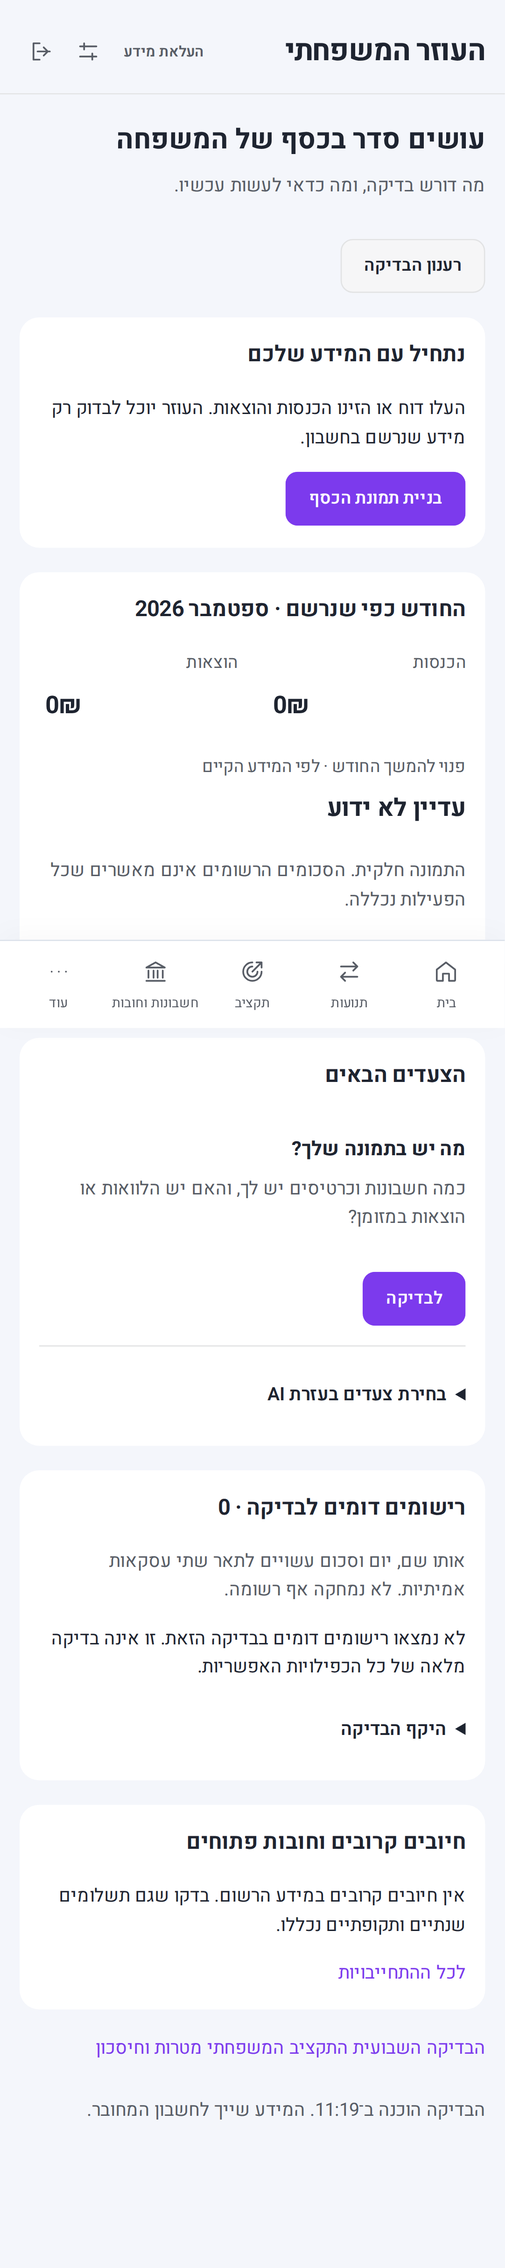
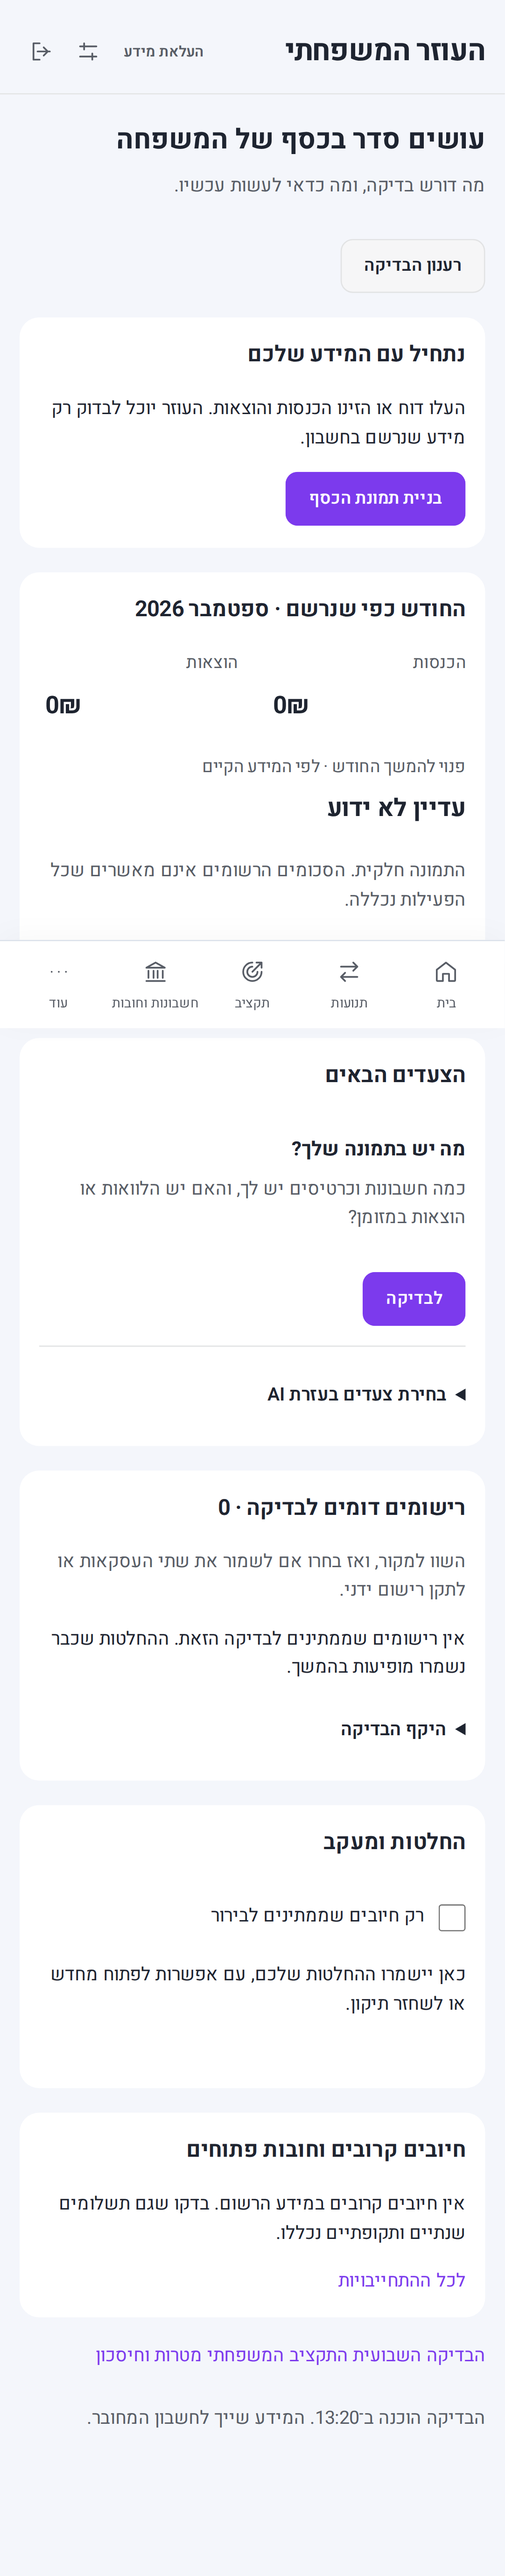
docs(assistant): record the duplicate review workflow and its limits

diff --git a/docs/research/household-assistant-implementation.md b/docs/research/household-assistant-implementation.md
@@ -11,8 +11,13 @@ This first version reviews recorded household finances and offers the next steps
 - `GET /api/household-assistant`: owner-scoped snapshot, version, generation time, authoritative totals, allowance, blockers, up to 30 existing journey actions, commitments and duplicate evidence.
 - `POST /api/household-assistant/plan`: strict `{ version, consent: true }`; rejects stale input with 409. Uses a configured model to select temporary task IDs. Returned IDs are validated and mapped to server-owned actions. Priorities ≤25 stay ahead of model selections. Changed data during inference returns `mode: "stale"` and no selections.
 - Model errors, invalid JSON, invented/duplicate IDs or absent configuration return deterministic steps (`mode: "rules"`). SDK requests receive a 15-second abort signal. Neither endpoint accepts a client-supplied owner.
+- `GET /api/household-assistant/duplicates/:id`: the full record set of one candidate group, re-read at request time. A group that no longer exists returns 409 rather than a stale list.
+- `POST /api/household-assistant/duplicate-reviews`: strict `{ requestId, candidateId, version, decision, confirmed: true }`, plus `removedKey`/`keptKey` for `remove_manual` only. Rejects a changed group with 409, a reused `requestId` carrying different content with 409, and replays an identical one without repeating its effect.
+- `GET /api/household-assistant/duplicate-reviews`: the decision history, newest first, 20 per page with a cursor; `followUp=true` returns only charges awaiting issuer clarification.
+- `POST /api/household-assistant/duplicate-reviews/:id/undo`: strict `{ version, confirmed: true }`. Reopens the group and restores a removed row with its original identity, month, category, payment method and recurrence. Blocked with an explicit reason when the retained sources changed, the ID is taken or the original category/payment method is gone.
 - Existing session authentication and CSRF protection apply. Limits are per authenticated user (30 scans / minute, 5 plan requests / minute), including users sharing an IP. The existing login limiter still uses its original IP behavior.
-- No schema/migration changes. No financial formulas, import deduplication, reconciliation rules or approval requirements changed. Snapshot collection reuses existing journey reads, which may initialize a profile, generate alerts or persist already-established automatic commitment verification. The assistant itself has no financial mutation endpoint.
+- One migration, `20260923120000_duplicate_reviews`, adds the `duplicate_reviews` audit table. No financial formulas, import deduplication, reconciliation rules or approval requirements changed. Snapshot collection reuses existing journey reads, which may initialize a profile, generate alerts or persist already-established automatic commitment verification.
+- `remove_manual` is the assistant's only financial mutation, and it deletes through `expensesService`/`incomesService` inside the existing owner transaction, so the deletion and its audit record commit together or not at all. Imported card charges are never deleted here. A removal bumps the financial revision, which invalidates coverage acknowledgement exactly as any other money change does.
 
 ## Duplicate scan boundaries
 
@@ -21,6 +26,16 @@ The most recent 90 calendar days through the Jerusalem business date; at most 2,
 Comparison uses positive signed amounts rounded to cents, normalized exact names and the same date. Same-source groups preserve payment-method/card/income-type identity. A manual expense can also match card evidence unless its payment method contradicts that. Repeated genuine purchases can be candidates: no automatic deletion, no claimed probability, no assumed savings. Response displays at most 50 groups / 20 records per group and exposes total counts.
 
 Dates used for this *identity check* are the transaction date. Monthly financial totals remain entirely from `monthTotals`, including the existing `billingDate` and financing rules. The two purposes must not be confused in future refactors.
+
+## Duplicate review decisions
+
+Three decisions: the records are separate transactions, a manual row was entered twice and one copy should go, or the charges are genuinely on the statement and need clarification with the issuer. Only the second removes anything, and only a manual expense or income — never an imported card charge. The third changes no amount at all; it records a follow-up the household still owes itself, and the money stays in the totals until the issuer question is settled.
+
+Every decision is bound to a `version` fingerprint of the exact rows it was made about. Editing any of those rows invalidates the decision: the group returns to the review list marked as reopened, the history entry reads as stale, and the legacy `duplicate_transaction` alert reappears. A new row joining the group reopens a whole-group decision too, since the question the household answered was about a different set of records. This is deliberate — a saved judgement is about evidence, not about record IDs.
+
+Undo restores the removed row from a snapshot taken before deletion, recreating it under its original ID. It refuses rather than partially rebuilds: if the retained rows changed, the ID was reused, or the original category or payment method was deleted, the history shows why and nothing is written.
+
+The scan and the `duplicate_transaction` alerts read the same persisted evidence, so a group confirmed as separate stops raising both. Those alerts now follow current evidence — an alert for a group that is no longer detected is removed rather than left standing — and the review history, not the alert list, is the durable record.
 
 ## AI configuration and privacy
 
@@ -34,6 +49,7 @@ Successful read-only plan POSTs deliberately do not emit the shared financial-mu
 
 - Backend: 414 tests passed, including 26 added tests; all six real statement/schedule fixtures and golden data present. Tests cover signed/different/multiple records, source identity, bank links, drafts, financing, installment exclusions, tenant isolation, stable snapshots, unchanged monthly totals, CSRF, consent, stale requests, in-flight changes, provider failures, invented output, cancellation propagation and per-user limits.
 - Backend build, typecheck, test typecheck and lint passed. Frontend build passed; lint has the existing 22 warnings in unrelated files and no new warnings.
+- Duplicate review (added after the sections above): backend 429 passed across 42 files, including 15 integration tests covering exact-once correction, full-field restore, immutable card charges, issuer follow-up, stale evidence, reopening on edits and new members, blocked undo, rollback when the audit fails, concurrent and replayed requests, pagination, ownership/CSRF/confirmation, and the legacy alert interaction. Real-API browser suite 10 passed across desktop/mobile, including the decision dialog in all eight themes with axe WCAG A/AA, keyboard focus order and dialog overflow. Existing mocked journey regression: 32 passed. Backend typecheck/test-typecheck, frontend build and lint clean. Verified against the real local database, with disposable synthetic accounts.
 - New real-API browser suite: 6 passed across desktop/mobile and empty/partial/dense disposable accounts. Populated scenarios exercise all 8 themes, RTL, axe WCAG A/AA checks, overflow, source links, keyboard activation and reduced-motion preference. Tablet 820px also checked. Data is persisted through real application APIs/database; the disposable dataset is synthetic. The existing parser/import regression suite separately uses real financial files.
 - Existing journey/onboarding browser regression: 38 passed initially; the two navigation tests expected four management destinations before this feature added a fifth. Updated that expectation, asserted the assistant destination, and reran both successfully (40 existing scenarios covered). The 10 broader visual-redesign audit cases were not rerun in this assistant change; the new assistant's eight-theme audit ran separately.
 - Screenshots: [desktop](screenshots/dense-assistant-desktop.png), [mobile](screenshots/dense-assistant-mobile.png), [tablet](screenshots/dense-assistant-tablet.png). Inspected desktop/mobile renders. Full-page mobile captures show fixed navigation at the viewport boundary; this is capture behavior, not a mid-page navigation position during use.
@@ -48,4 +64,6 @@ It starts its own backend on 3015 and frontend on 5185, disables the external mo
 
 ## Follow-up boundaries
 
-Live provider availability, response quality/cost and the configured model still need verification after operator configuration. The model contract is tested with injected provider responses; an automated accessibility scan is not a complete assistive-technology audit. Duplicate precision/recall needs a consented, labelled household dataset before enabling fuzzy matching. Durable "these are separate purchases" decisions, automatic classification, income scenarios, periodic-expense planning and multi-user household sharing remain separate future work, described in the research document.
+Live provider availability, response quality/cost and the configured model still need verification after operator configuration. The model contract is tested with injected provider responses; an automated accessibility scan is not a complete assistive-technology audit. Duplicate precision/recall needs a consented, labelled household dataset before enabling fuzzy matching. Automatic classification, income scenarios, periodic-expense planning and multi-user household sharing remain separate future work, described in the research document.
+
+Issuer follow-up is a note to the household, not an action: nothing is sent to the card issuer, and no one is reminded after the first time the entry appears in the tracking list. Decision history is kept indefinitely and has no export. Restoring a removed row depends on the archived snapshot, so a restore attempted long after the surrounding data moved on will correctly refuse more often than it succeeds.
